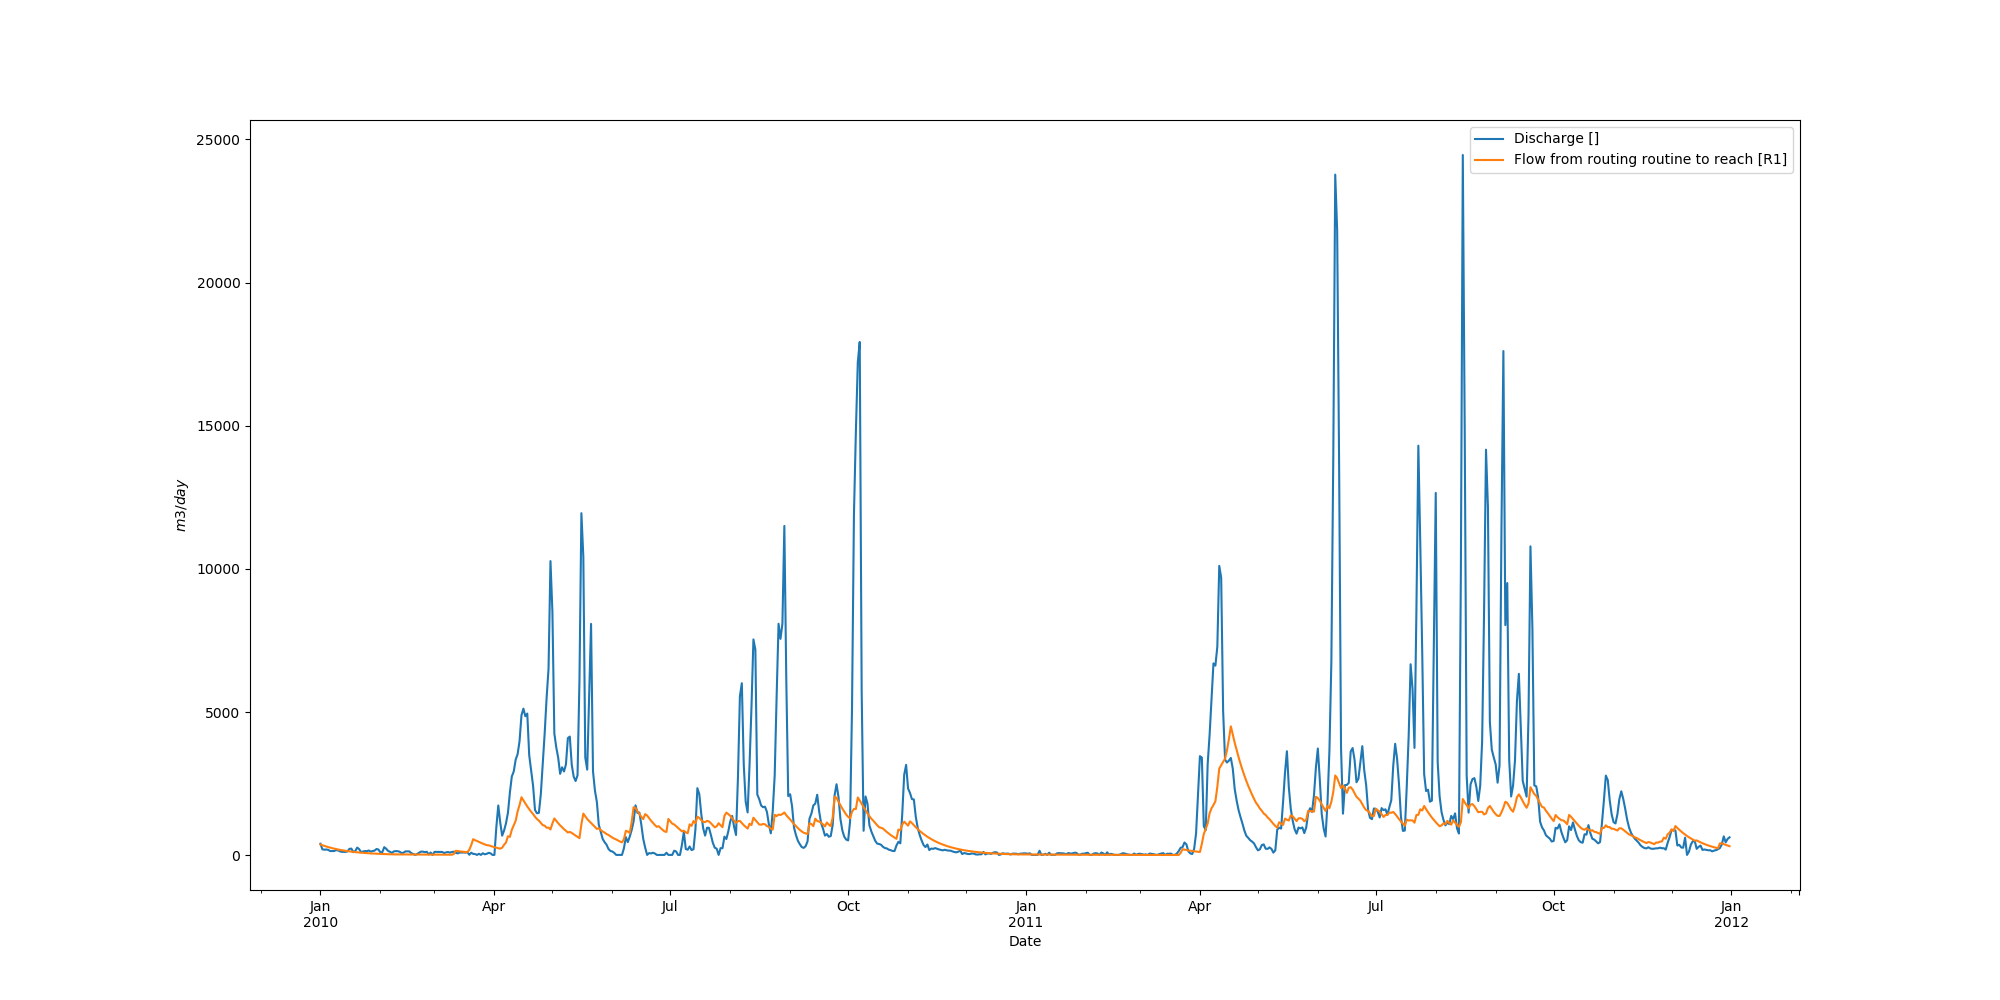
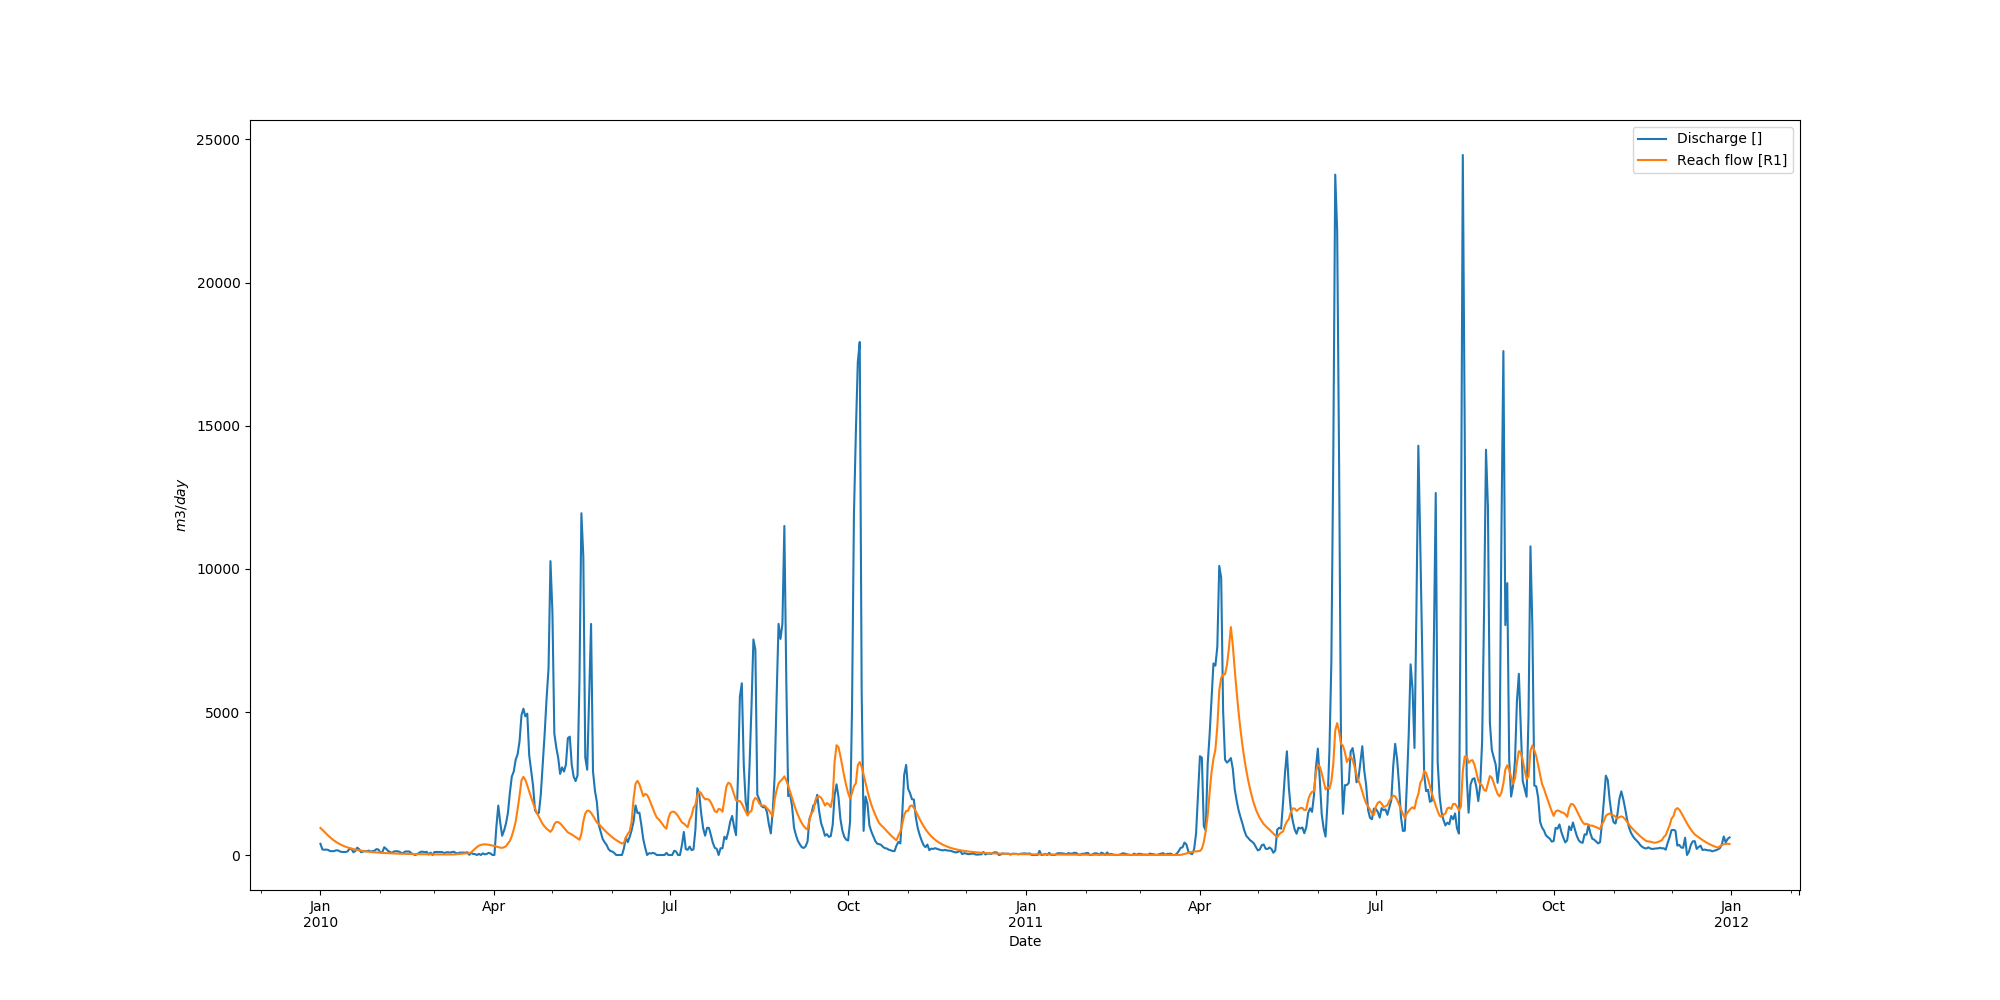
The optimizer is still not able to find good parameters for HBV for langtjern.

diff --git a/PythonWrapper/hbv_optimize.py b/PythonWrapper/hbv_optimize.py
@@ -19,7 +19,9 @@ calibration = [
 	('Beta recharge exponent',                                                  ['Forest']),
 	('Recession coefficient for groundwater slow flow (K1)',                    ['R1']),
 	('Recession coefficient for groundwater fast flow (K0)',                    ['R1']),
-	#('Threshold for second runoff in groundwater storage (UZL)',                ['R1']),
+	('Threshold for second runoff in groundwater storage (UZL)',                ['R1']),
+	('a',                                                                       ['R1']),
+	('b',                                                                       ['R1']),
 	]
 
 
@@ -33,7 +35,7 @@ constrain_min_max(dataset, calibration, min, max) #NOTE: Constrain to the min an
 
 skiptimesteps = 100   # Skip these many of the first timesteps in the objective evaluation
 
-objective = (log_likelyhood, 'Flow from routing routine to reach', ['R1'], 'Discharge', [], skiptimesteps)
+objective = (log_likelyhood, 'Reach flow', ['R1'], 'Discharge', [], skiptimesteps)
 
 
 param_est = run_optimization(dataset, min, max, initial_guess, calibration, objective, minimize=False)
